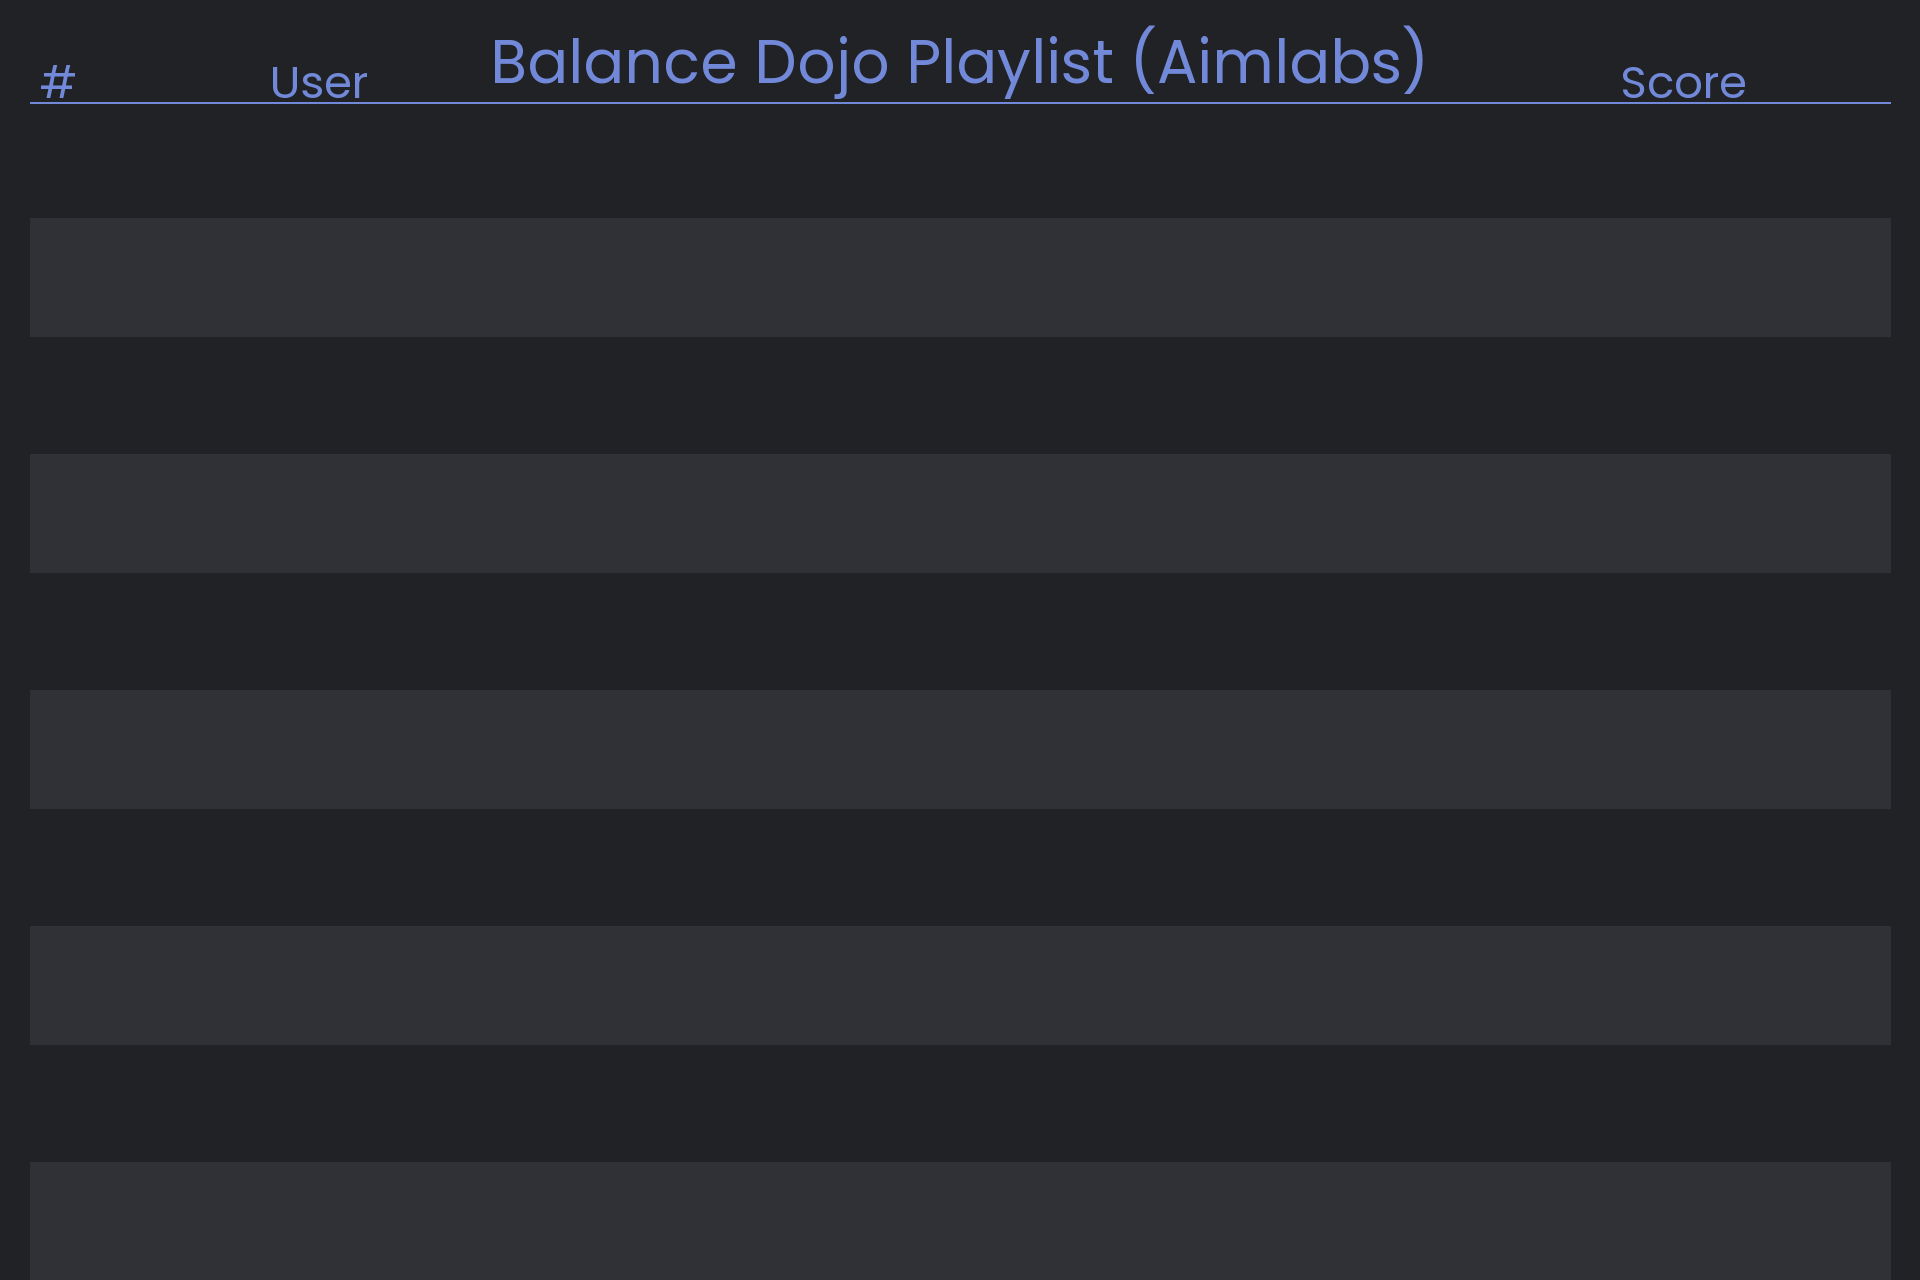
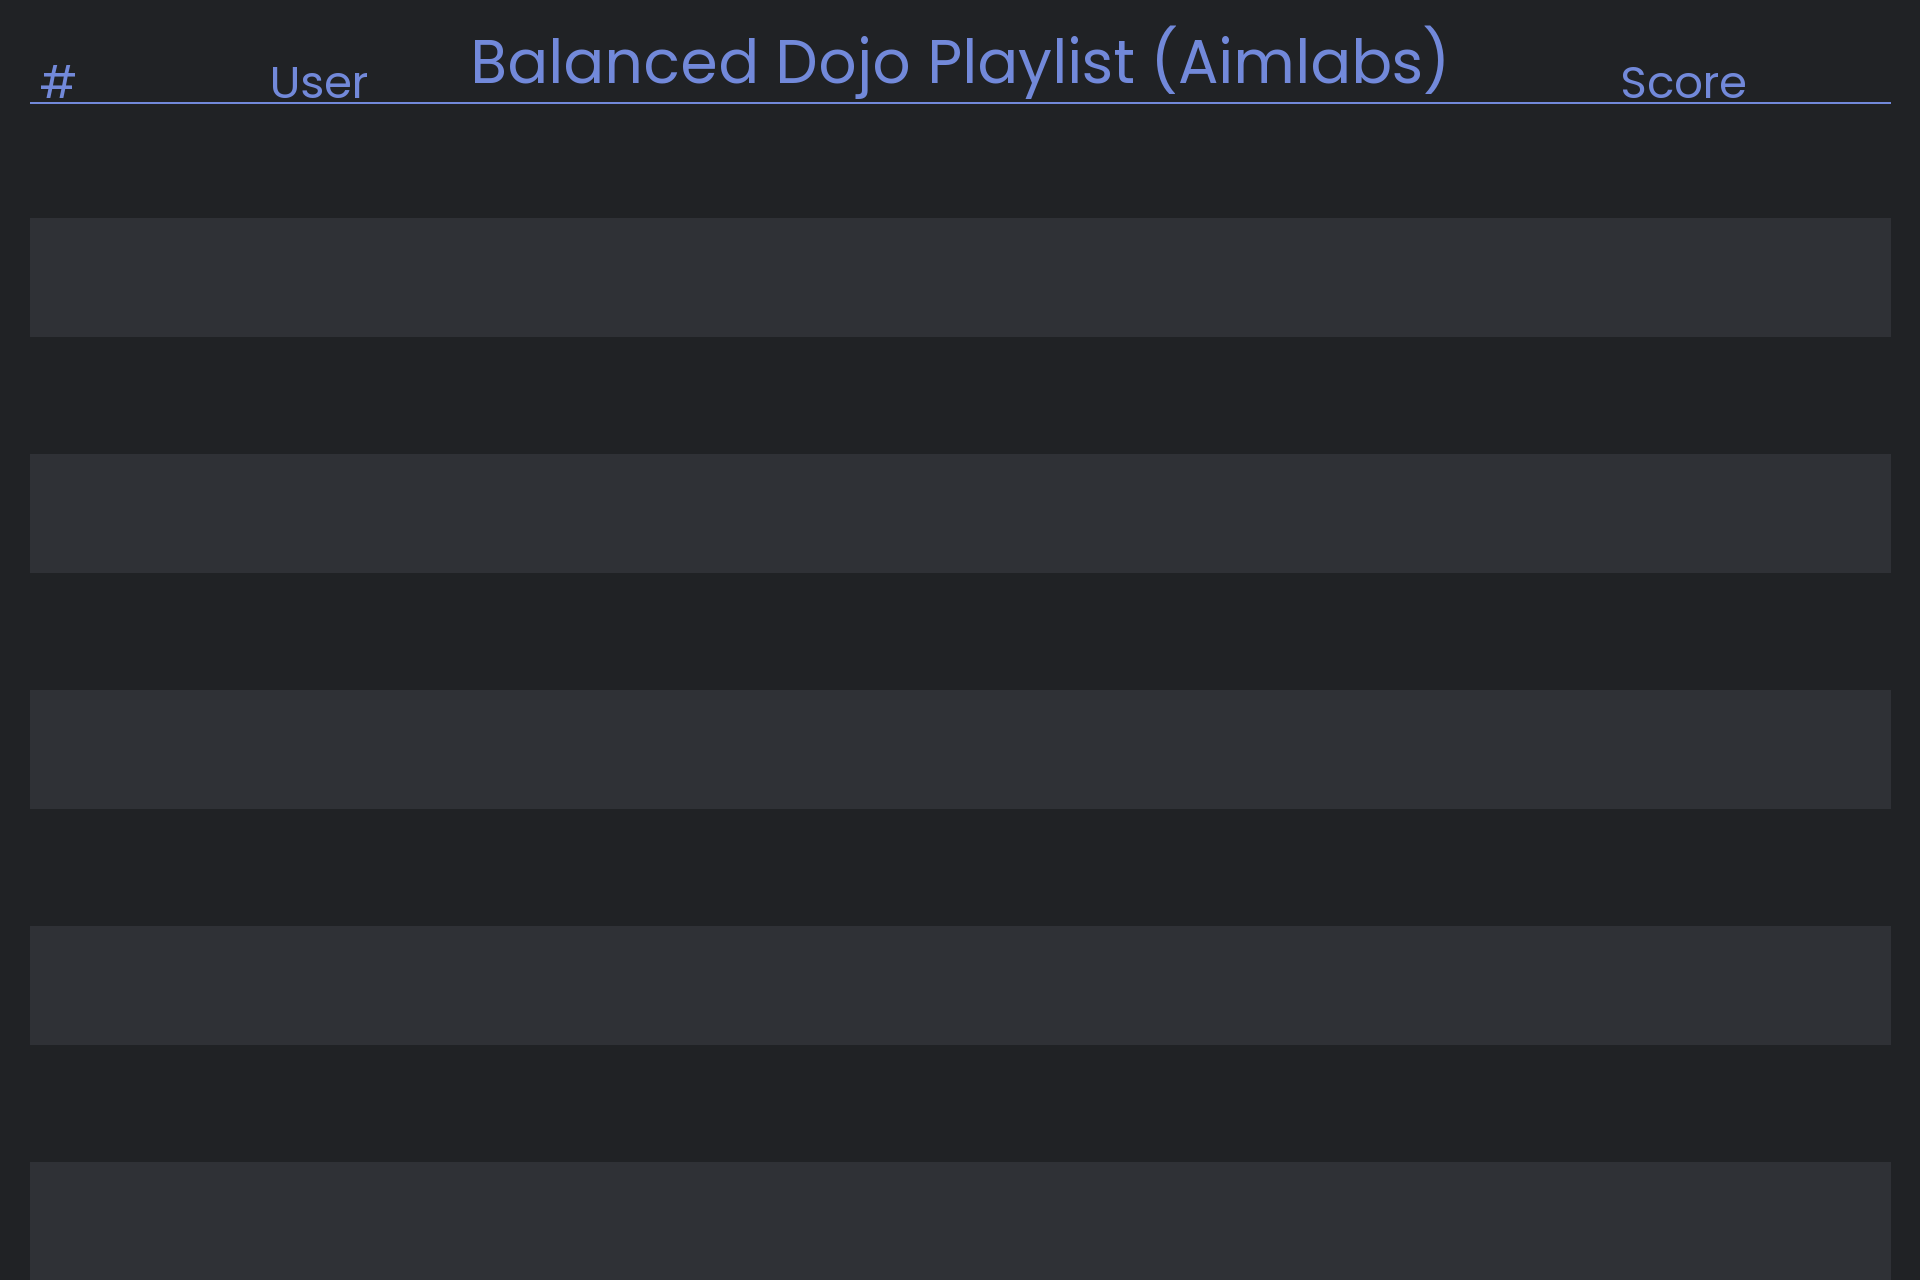
Added 2 new leaderboards

Changed region(s): [[0.25, 0.0312, 0.75, 0.0938]]

diff --git a/configs/leaderboard_config.py b/configs/leaderboard_config.py
@@ -107,7 +107,7 @@ LEADERBOARD_RENDER_CONFIG = {
         data_parser = voltaic_s5_benchmark_leaderboard_parser
     ),
     leaderboard_types_list[4]: LeaderboardRendererConfig(
-        title = "Balance Dojo Playlist (Aimlabs)",
+        title = "Balanced Dojo Playlist (Aimlabs)",
         headers = ["#", "User", "Score"],
         header_positions = [40, 270, 1620],
         score_position = 1710,

diff --git a/utils/image_gen.py b/utils/image_gen.py
@@ -266,5 +266,5 @@ async def setup(bot): pass
 async def teardown(bot): pass
 
 
-# if __name__ == '__main__':
-#     _get_templates("dojo_aimlabs_playlist_advanced")
+if __name__ == '__main__':
+    _get_templates("dojo_aimlabs_playlist_balanced")
